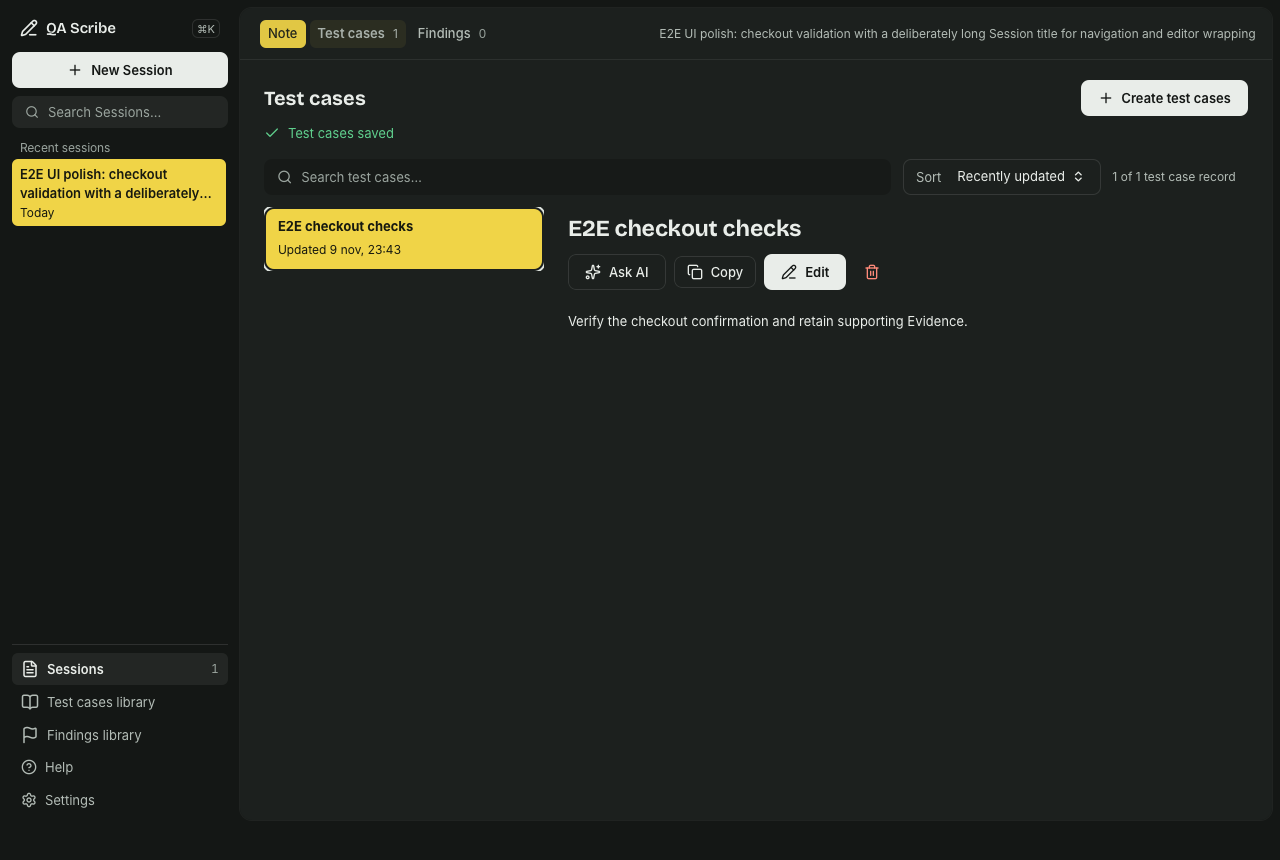
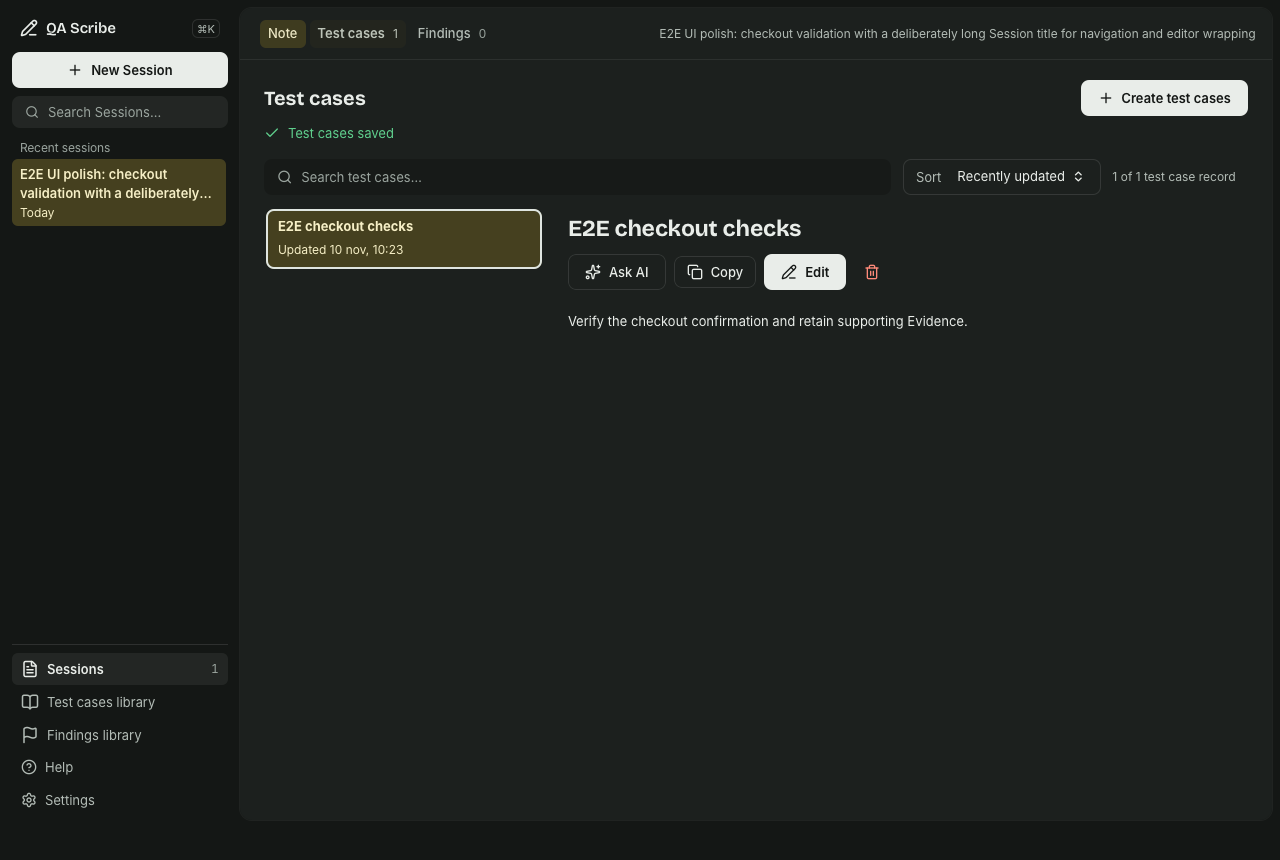
fix(ui): softer highlighter and readable badges in dark mode; CI critical path roughly halved (#111)
* fix(ui): softer highlighter, readable badges, and faster parallel CI

* docs(design): refresh screenshots for the softer highlighter

---------

Changed region(s): [[0.0, 0.1814, 0.4375, 0.3326], [0.1875, 0.0, 0.25, 0.0605]]

diff --git a/frontend/src/styles/collections.css b/frontend/src/styles/collections.css
@@ -114,9 +114,10 @@
   border-radius: var(--radius-md);
 }
 
+/* WebKitGTK paints native select chrome for a transparent background, so give it the sheet colour. */
 .collection-sort select {
   color: var(--text-primary);
-  background: transparent;
+  background-color: var(--surface-raised);
   border: 0;
 }
 
@@ -203,6 +204,12 @@
   font-weight: 400;
 }
 
+/* Rows sit flush in a scroll container, so an outset ring would be clipped. */
+.record-master-list > button:focus-visible {
+  outline: 2px solid var(--accent);
+  outline-offset: -2px;
+}
+
 .record-master-list > button.active :is(span, .finding-meta-row) {
   color: inherit;
 }
@@ -244,6 +251,11 @@
   letter-spacing: -0.01em;
 }
 
+/* Focus moves here to announce a newly generated record; it is not a control. */
+.record-title:focus {
+  outline: none;
+}
+
 .record-heading-row {
   display: flex;
   align-items: flex-start;
@@ -265,7 +277,8 @@
   min-height: 22px;
   padding: 0 var(--space-2);
   color: var(--text-secondary);
-  background: var(--surface-sunken);
+  /* Translucent so badges stay readable on the highlighted list row in both themes. */
+  background: var(--surface-tint);
   border-radius: var(--radius-full);
   font-size: var(--font-size-sm);
   white-space: nowrap;

diff --git a/frontend/src/styles/base.css b/frontend/src/styles/base.css
@@ -72,7 +72,7 @@
   --accent-alt: #5b3fa8;
   --on-accent: #ffffff;
 
-  --mark: #ffe45c;
+  --mark: #fff1ad;
   --on-mark: #1a201d;
   --surface-tint: color-mix(in oklab, var(--text-primary) 7%, transparent);
   --focus-halo: color-mix(in oklab, var(--accent) 22%, transparent);
@@ -133,8 +133,9 @@
   --accent-alt: #b3a0f5;
   --on-accent: #111412;
 
-  --mark: #f0d447;
-  --on-mark: #17190f;
+  /* A soft amber wash: dark mode keeps light text instead of a saturated yellow block. */
+  --mark: #45401f;
+  --on-mark: #f6efc6;
 
   --success: #5fcf8d;
   --success-hover: color-mix(in oklab, var(--success) 88%, #fff);

diff --git a/frontend/vite.config.ts b/frontend/vite.config.ts
@@ -24,8 +24,10 @@ export default defineConfig({
     environment: 'jsdom',
     // Bound JSDOM contention on developer desktops and shared CI hosts.
     maxWorkers: 2,
-    // Multi-step controller workflows can exceed five seconds on shared CI hosts.
-    testTimeout: 10_000,
+    // The slowest test takes about two seconds on an idle machine, but shared CI
+    // hosts have stalled single tests past ten. This ceiling only catches hangs;
+    // assertion failures still surface through waitFor's own one-second limit.
+    testTimeout: 30_000,
     setupFiles: ['./src/test/dialogPolyfill.ts']
   }
 })

diff --git a/frontend/src/styles/sidebar.css b/frontend/src/styles/sidebar.css
@@ -201,6 +201,10 @@
   background: var(--surface-tint);
 }
 
+.session-picker-item:focus-visible {
+  outline-offset: -2px;
+}
+
 .session-picker-item.active:hover {
   background: var(--mark);
 }
@@ -215,6 +219,11 @@
 .model-options-empty {
   margin: 0;
   line-height: var(--leading-normal);
+}
+
+.session-picker-empty,
+.session-picker-more {
+  padding: var(--space-1) var(--space-2) 0;
 }
 
 .model-combobox {

diff --git a/frontend/src/styles/editor.css b/frontend/src/styles/editor.css
@@ -81,7 +81,7 @@
   height: var(--control-sm);
   padding: 0 var(--space-2);
   color: var(--text-secondary);
-  background: transparent;
+  background-color: var(--surface-raised);
   border: 1px solid transparent;
   border-radius: var(--radius-sm);
 }

diff --git a/docs/verification/check-inventory.md b/docs/verification/check-inventory.md
@@ -19,9 +19,9 @@ The workflow YAML and `package.json` remain authoritative.
 
 | Workflow and jobs | Trigger and runner | Proof and commands | Artifacts |
 | --- | --- | --- | --- |
-| CI `changes`, `quality-linux`, `ci-success` | Every PR to main, push to main, and merge group. Ubuntu 26.04. | Changed-file outputs, unconditional `.github/actions/validate-build`, and stable required aggregation. The shared gate adds workflow lint, online Actions audit, built-app E2E, and startup budgets to repository validation. | Actions logs and summary, `qa-scribe-e2e-passed-*` or `qa-scribe-e2e-failed-*`, failure evidence |
+| CI `changes`, `quality-linux`, `e2e-linux`, `ci-success` | Every PR to main, push to main, and merge group. Ubuntu 26.04. | Changed-file outputs, unconditional `.github/actions/validate-build`, and stable required aggregation. The shared gate adds workflow lint and online Actions audit to repository validation; `e2e-linux` runs the built-app E2E and startup budgets in parallel. | Actions logs and summary, `qa-scribe-e2e-passed-*` or `qa-scribe-e2e-failed-*`, failure evidence |
 | CI `rust-macos` | Platform input changes detected by `changes`. macOS 26 arm64. | Frontend build, prebuilt contract, `cargo test --workspace`, and Intel `cargo check`. Includes toolchain and setup helpers. | Actions log |
-| CI `package-linux` | Package input changes after successful Linux quality. Ubuntu 26.04 and digest-pinned Fedora 44. | Package build, artifact and metadata checks, deb and AppImage launch, dependency-resolving RPM installation and launch, APT generator and installer checks. | Actions log, metadata report and summary |
+| CI `package-linux` | Package input changes, in parallel with Linux quality. Ubuntu 26.04 and digest-pinned Fedora 44. | Package build, artifact and metadata checks, deb and AppImage launch, dependency-resolving RPM installation and launch, APT generator and installer checks. | Actions log, metadata report and summary |
 | CI `e2e-macos` | Every CI execution. macOS 26 arm64. | Shared built-app gate, observational with `continue-on-error`. Excluded from `ci-success`. | `qa-scribe-e2e-macos-passed-*` or `qa-scribe-e2e-macos-failed-*`, failure evidence |
 | Native TypeScript tooling `native-tooling` | PR tooling inputs or manual dispatch. Ubuntu 24.04 x64, macOS 26 arm64, and macOS 26 Intel. | Cold and exact-cache warm installs, SDK, lint, compiler, frontend checks, metadata, production build, and isolation. Actual editor smoke on arm64. | `native-tooling-*`, `native-editor-smoke-*` |
 | Release `release-context`, `validate-release`, `create-release` | Main pushes and authorized `v*` tags. Ubuntu 24.04. Publication proceeds only for an eligible version. | Resolve version and tag, metadata validation, same shared validation action, draft release notes. | Actions logs, validation E2E and startup evidence |

diff --git a/docs/ci.md b/docs/ci.md
@@ -10,9 +10,13 @@ The CI workflow is deliberately divided by responsibility:
 - **Quality gate (Linux)** is the authoritative repository gate. It runs the
   frontend and dependency audits, static checks, tests, release-script tests,
   production build, Tauri contracts, Rust formatting, clippy, tests, build,
-  smoke harness, a built-application WebdriverIO suite, and the deterministic
-  large-fixture startup budget. This job always runs so changes cannot
-  accidentally fall outside a path filter.
+  and smoke harness. This job always runs so changes cannot accidentally fall
+  outside a path filter.
+- **Built application E2E (Linux)** runs the built-application WebdriverIO
+  suite and the deterministic large-fixture startup budget through the same
+  `run-built-app-e2e` action that release validation uses. It is the longest
+  check, so it runs unconditionally in parallel with the quality gate instead
+  of extending it. Both are required through `CI success`.
 - **Platform tests (macOS)** run native Rust tests and an Intel cross-compile
   when Rust, Tauri, frontend, icon, workflow, toolchain, or setup-helper inputs
   change. Platform-neutral frontend checks and dependency audits are not repeated here.
@@ -21,8 +25,8 @@ The CI workflow is deliberately divided by responsibility:
   execution. The job is non-blocking and deliberately excluded from the
   `CI success` dependency graph while it accumulates promotion evidence.
 - **Package test (Linux)** builds and validates distributable Linux artifacts
-  only when a packaging input changes. It starts only after the quality gate
-  succeeds. After metadata validation it installs and launches the final deb
+  only when a packaging input changes. It runs in parallel with the quality
+  gate; `CI success` still requires both. After metadata validation it installs and launches the final deb
   and executes the AppImage on Ubuntu, then mounts the same artifact directory
   into a digest-pinned Fedora 44 container where `dnf` resolves the final RPM's
   dependencies before launch. Fedora 44 matches the CI build host's glibc 2.43
